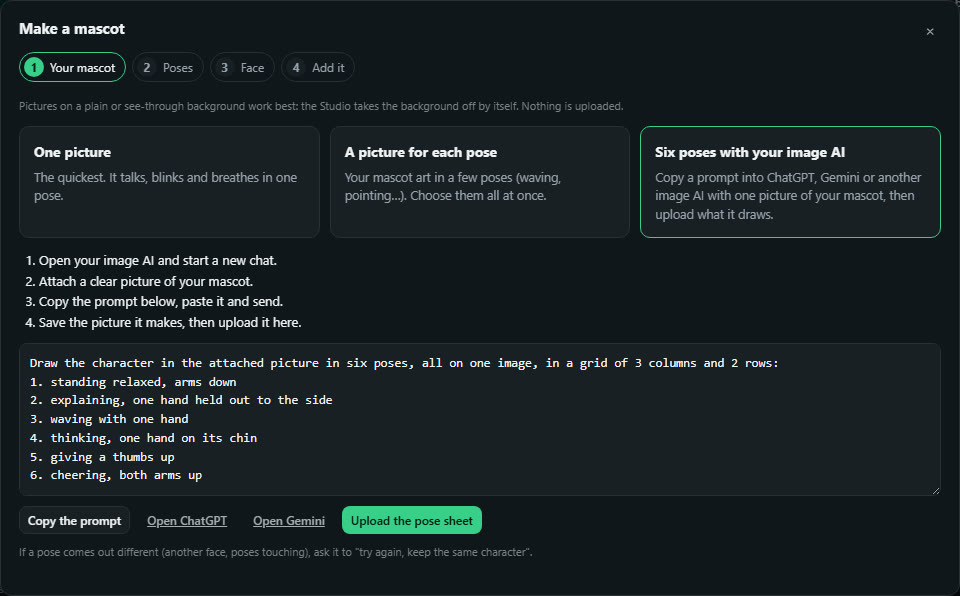
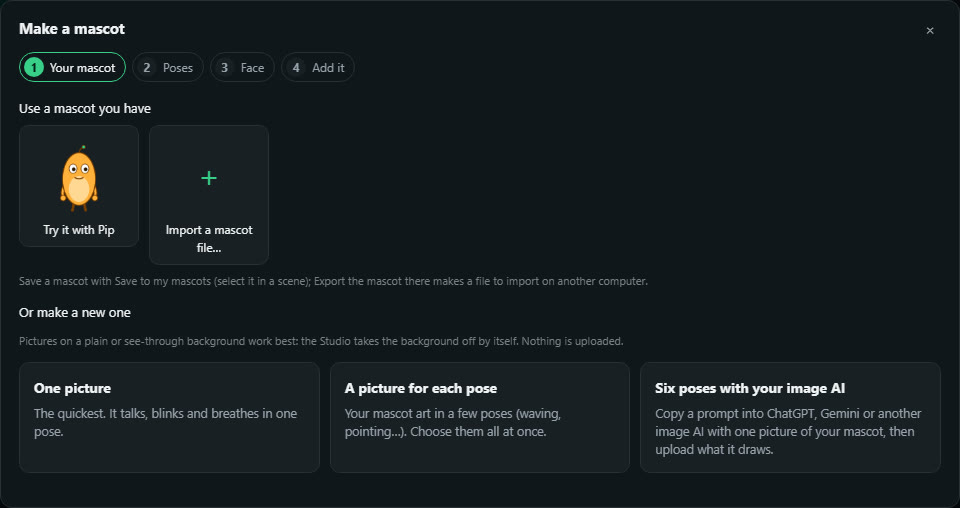
Kinetic Scenes: mascots complete (drawn mouths, sharper lip sync, Import / Export, Pip, template, agent tools); Phase 28 done

diff --git a/kinetic-scenes/mascots.md b/kinetic-scenes/mascots.md
@@ -1,7 +1,7 @@
 ---
 sidebar_position: 11.56
 title: Mascots that talk
-description: Make a mascot or brand character once, from one picture, your own pose pictures or six poses drawn by your image AI, and it talks on the voice-over of any scene, blinks, breathes and changes pose on the words you pick.
+description: Make a mascot or brand character once, from one picture, your own pose pictures or six poses drawn by your image AI, and it talks on the voice-over of any scene, blinks, breathes and changes pose on the words you pick. Drawn mouths, sharper lip sync, saved mascots, Import / Export, a sample mascot and agent tools.
 ---
 
 # Mascots that talk
@@ -20,7 +20,17 @@ It is made in the Studio, on your computer: the pictures are only sent where you
 
 ### 1. Your mascot
 
-Choose where the pictures come from:
+<img src="/img/kinetic-scenes/mascot-start.jpg" alt="The mascot creator, step 1: Try it with Pip, your saved mascots, Import a mascot file, and the three ways to make a new one" width="640" />
+
+**Use a mascot you have:**
+
+- **Try it with Pip:** the sample mascot that comes with the Studio (six poses, drawn mouths, its face already set). It
+  goes straight into the scene, to try mascots before making your own.
+- **Your mascots:** the ones you saved with **Save to my mascots** (below), in any project. **Remove** takes one off the
+  list.
+- **Import a mascot file…:** a `.mascot.json` file from **Export the mascot** (another computer, a teammate).
+
+**Or make a new one:**
 
 | Choice | What you need | What you get |
 |---|---|---|
@@ -30,8 +40,6 @@ Choose where the pictures come from:
 
 Pictures on a **plain or see-through background** work best: the Studio takes the background off by itself and trims
 each pose. A picture on a busy background (a photo) is used as it is.
-
-<img src="/img/kinetic-scenes/mascot-start.jpg" alt="The mascot creator, step 1: the three choices and the prompt for an image AI" width="640" />
 
 **Six poses with your image AI:** open your image AI, attach a clear picture of your mascot, copy the prompt from the
 creator, send it, then upload the picture it draws (the pose sheet). The prompt asks for the six poses on a plain green
@@ -64,6 +72,24 @@ dark, side by side) and puts the mouth just below them; you fix what is off.
 
 <img src="/img/kinetic-scenes/mascot-face.jpg" alt="Step 3: the eyes found and the mouth below them, with the live preview talking" width="640" />
 
+#### Drawn mouths (optional)
+
+Under the face: **Drawn mouths**. Without them, the pose's own mouth opens and closes (its lower lip moves down over a
+dark opening). With them, the mouth is **drawn for each sound**, which looks more like an animated cartoon:
+
+1. **Copy the mouth prompt** and send it in the same chat with your image AI. It asks for the mascot's mouth nine times,
+   on a green sheet, one per sound: closed, "ah", "ee", "oh", "oo", "m" (lips pressed), "f" (teeth on the lip), "l"
+   (tongue up) and "s" (teeth showing).
+2. **Upload the mouth sheet.** The Studio cuts out the nine mouths and shows them under their sounds. The preview talks
+   with them at once.
+3. **Use the pose's own mouth instead** goes back.
+
+<img src="/img/kinetic-scenes/mascot-mouths.jpg" alt="The face step with Drawn mouths open: the preview talks with a drawn mouth" width="640" />
+
+The drawn mouths go on every pose, over the pose's own mouth, sized to its mouth box.
+
+<img src="/img/kinetic-scenes/mascot-drawn-mouths.jpg" alt="Drawn mouths changing with the sounds: ee, oh, teeth, lips pressed, closed" width="760" />
+
 ### 4. Add it
 
 Give it a name and **Add it to the scene**. It goes in as a **Mascot** layer, about two thirds of the stage high. Move
@@ -75,10 +101,15 @@ and size it like any layer; the picture keeps its shape inside its box.
   captions and word pins use). Any voice the Studio makes has them (the free voices, Voicebox); a recording gets them when
   you transcribe it. Without a voice-over with its words, the mascot stays quiet, and Check scene says so.
 - **Shaped by the sounds.** Each word is timed letter by letter: the mouth opens wide on "a", less on "e" and "i", rounds
-  on "o", and shuts on "m", "b" and "p". Re-record or reword the line and the mouth follows the new take.
+  on "o", and shuts on "m", "b" and "p". With drawn mouths, each of those shows its drawn shape.
+- **Sharper lip sync, from the voice's loudness.** When a mascot goes into a scene, the Studio listens to the voice it
+  talks on once and keeps its loudness on the voice clip (50 values a second). The mouth then shuts in the pauses, even
+  short ones inside a word, and opens wider on the loud, stressed syllables, exactly in time with the sound. For a voice
+  added later, click **Sharper lip sync** in the mascot's settings. It runs in the browser: nothing is uploaded.
 - **Blinks** every few seconds, now and then twice, at its own natural rhythm (the same every time the scene plays).
 - **Breathes**: a slow, small rise and fall, a touch more as it talks.
 
+Re-record or reword the line and the mouth follows the new take (click **Sharper lip sync** again for its loudness).
 Everything is drawn from the scene's time, so the preview, the exported video and the scene on a web page match exactly.
 
 ## Pose changes
@@ -100,38 +131,67 @@ Select the mascot to see them in the Inspector:
 |---|---|
 | **Main pose** | The pose it shows when no Pose clip is playing. |
 | **Talks on** | Which voice-over it follows (the first one with words, unless you choose). |
+| **Sharper lip sync** | Measures the voice's loudness (shown until it is done; afterwards the settings say the mouth follows the loudness). |
 | **Mouth opens** | How wide the mouth opens, 0 (shut) to 1.5. |
 | **Blinks** | Blinking on or off. |
 | **Breathes** | The slow breathing on or off. |
 | **Add a pose change** | A Pose clip at the playhead (two poses or more). |
-| **Edit the mascot** | Back into the creator: rename poses, add or remove poses, fix the face. Pose clips keep working. |
+| **Edit the mascot** | Back into the creator: rename poses, add or remove poses, fix the face, change the drawn mouths. Pose clips keep working. |
 
 It also takes every ordinary preset on its row (an entrance, a slide, an exit), like any layer.
+
+## Your mascots: Import / Export
+
+Under **Import / Export** in the mascot's settings:
+
+- **Save to my mascots** keeps it in this browser, with every picture. **Insert › Mascot…** then lists it in any project,
+  ready to use in one click.
+- **Export the mascot** downloads it as one file, `<name>.mascot.json`, with its poses, face boxes, drawn mouths and
+  settings inside. Use it on another computer, keep it as a backup, or share it with your team.
+- **Import a mascot…** adds a mascot from such a file to the scene (also in the creator's first step).
+
+A file exported and imported again gives the same mascot, unchanged. Saved mascots stay in this browser: clearing the
+browser's site data removes them, so export the ones you want to keep.
+
+## The Mascot presenter template
+
+**A template › Mascot presenter** (in the start box): Pip on the left presents three points that land on the right, one
+by one. It waves hello, explains each point, thinks, and gives a thumbs up at the end. Change the words, add a voice-over
+(Pip talks on it), or put your own mascot in Pip's place (select Pip, **Edit the mascot**, or delete it and add yours).
 
 ## On a web page and in a video
 
 A mascot plays wherever the scene does: exported as a video (MP4, or a see-through WebM or ProRes video to put on top of
-anything in another editor), or live on a web page with the Unyson+ **Kinetic Scene** element, where it is sharp at any
-size and far lighter than a video.
+anything in another editor), as a web page (Export › For a web page), or live on a WordPress page with the Unyson+
+**Kinetic Scene** element. There it is sharp at any size and far lighter than a video. The element needs the scene player
+0.0.70 or newer (the Animation Engine extension 1.5.19 or newer).
 
 ## With an AI agent
 
-An agent connected to the [AI Dev Kit](./ai-agents.md) can use a mascot you made: copy the layer into a project, write
-the lines, make the voice, and pin a Pose clip to the words it belongs to. The format is in the scene file reference
-(`type: "mascot"`, with its `poses` and their `mouth` and `eyes` boxes, and `mascot-pose` clips).
+An agent connected to the [AI Dev Kit](./ai-agents.md) can use the mascots you made, with three tools:
+
+- **`mascot_list`**: the mascots in your workspace projects, with their poses.
+- **`mascot_copy`**: copies one, with its pictures, into another project.
+- **`mascot_direct`**: pins poses to words of the voice-over ("wave on *hello*, thumbs up on *free*"), so they follow a
+  new take by themselves.
+
+Ask it, for example: *"Make a 30-second video where Pip explains our three plans, in a friendly voice, and gives a thumbs
+up on the free one."* The agent's guide is the kit's `docs/mascots.md` (`scene_guide` topic "mascots"); the format is in
+the scene file reference (`type: "mascot"`, its `poses` with their `mouth` and `eyes` boxes, `mouths`, and `mascot-pose`
+clips).
 
 ## Limits
 
-- **The mouth is the pose's own mouth, opened.** Its lower lip moves down while a dark opening grows behind it. It works
-  best when the mouth is **closed** in the pose picture. Drawn mouth shapes for each sound are planned.
+- **The pose's own mouth works best closed** in the picture: it opens by moving the lower lip down. Drawn mouths avoid
+  that limit.
 - **The face boxes are a guess to check.** Eyes that are not a clear pair of spots (sunglasses, eyes drawn as lines) are
   not found: draw their boxes yourself, or turn off Blinks.
 - **The eyelid is the skin just above the eye**, slid down over it, so it matches the skin when that skin is one colour.
-  A busy pattern above the eyes shows as the lid.
-- **Six poses from an image AI depend on the AI.** Some change the character between poses; ask again, or use your own
-  pose pictures.
-- **Up to 24 poses** on one mascot, and up to 12 from one sheet.
-
-Planned next (see the [roadmap](./roadmap.mdx), Phase 28): drawn mouths for each sound, sharper lip sync through the AI
-Dev Kit, your mascots in the Library to reuse across projects, agent tools to direct a mascot, and a mascot-presenter
-template.
+  A busy pattern above the eyes shows as the lid. In the same way, drawn mouths cover the pose's own mouth with the skin
+  just below it.
+- **Pictures from an image AI depend on the AI.** Some change the character between poses, or draw mouths in another
+  style; ask again, or use your own pictures.
+- **Sharper lip sync needs the sound in the browser**: a voice kept only on another computer cannot be measured (the
+  words still move the mouth).
+- **Up to 24 poses** on one mascot, 12 from one sheet; nine drawn mouths.
+- **Pictures are made by your image AI or by you**: the Studio does not draw them itself.
